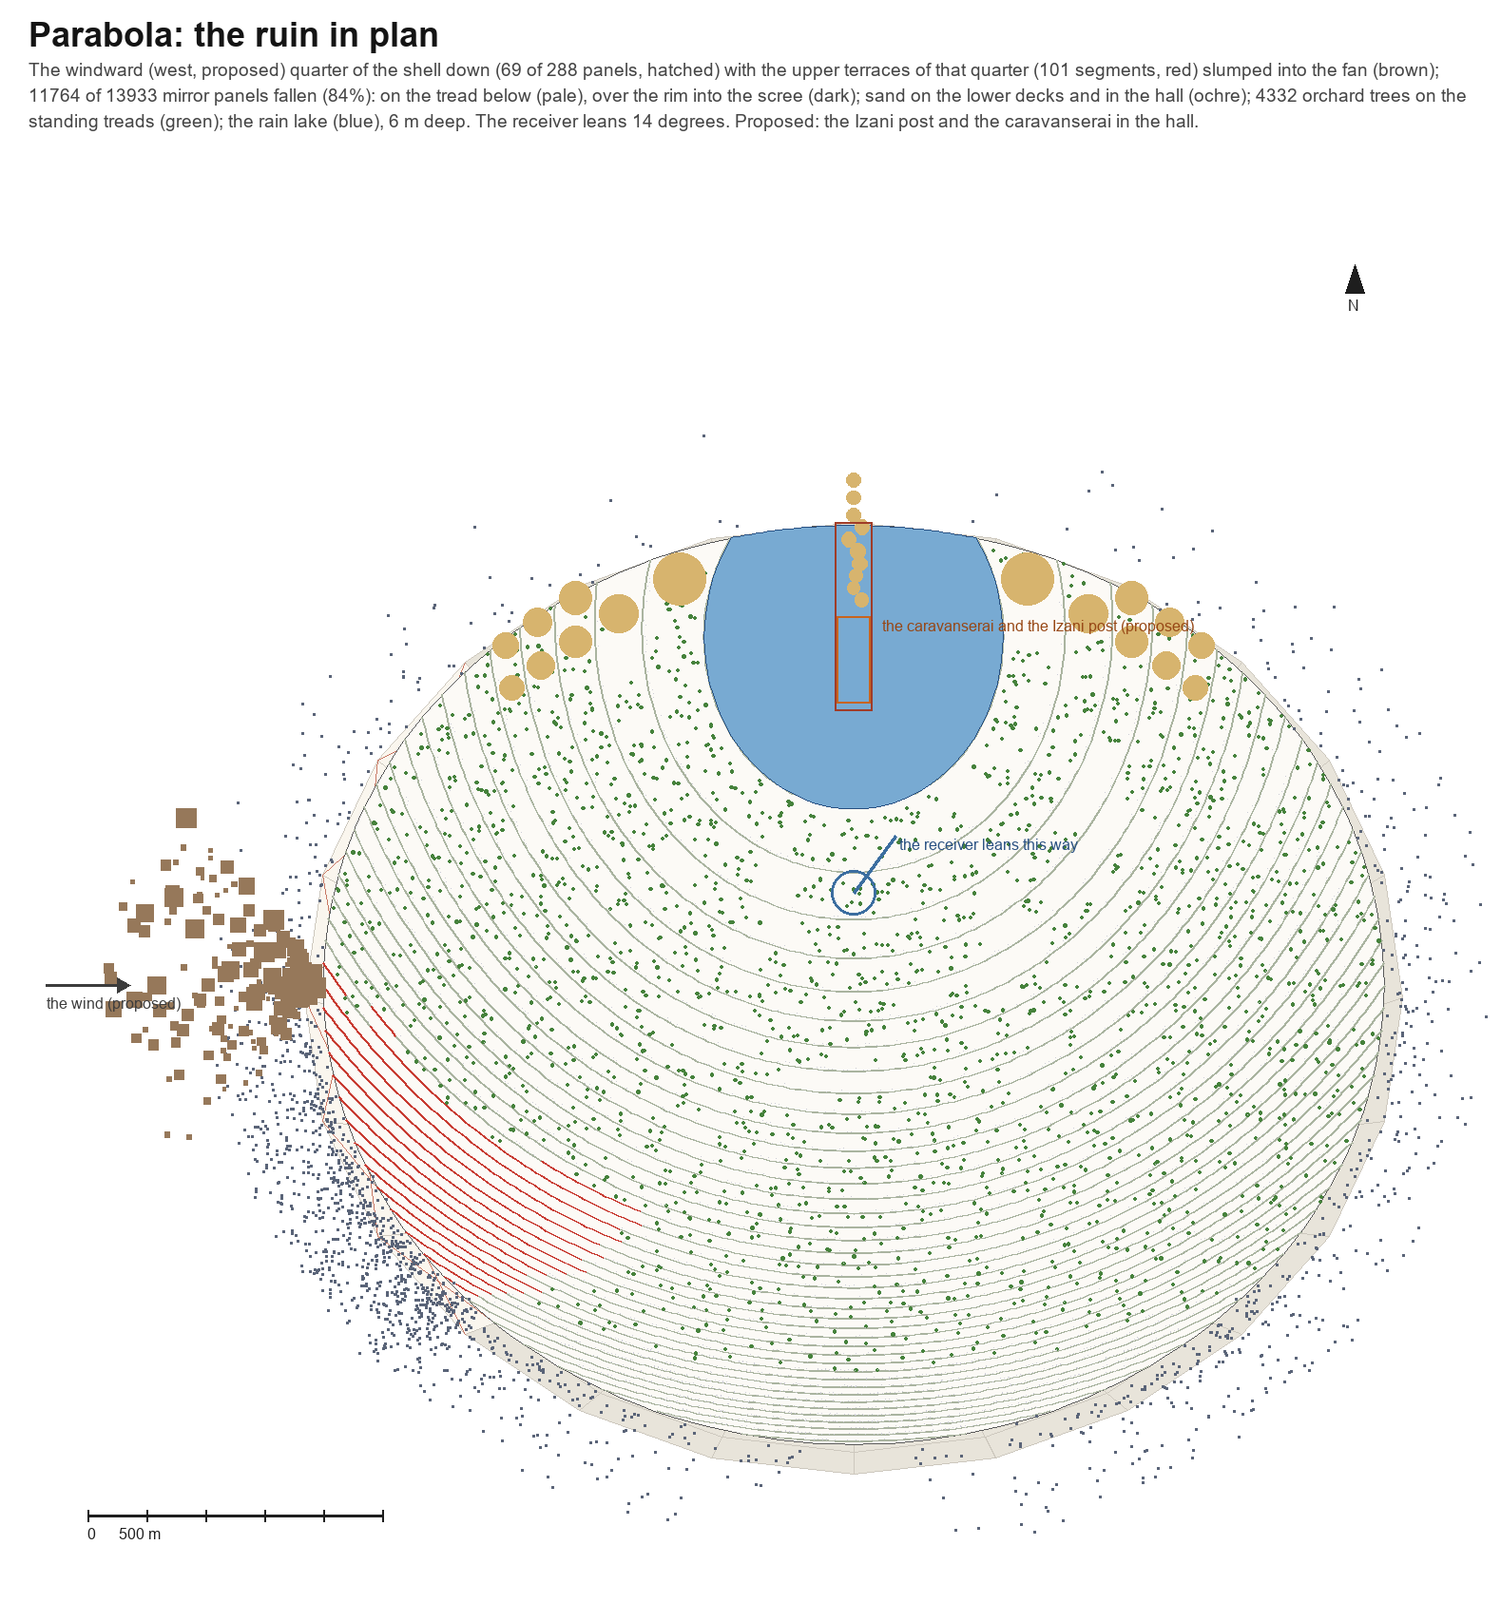
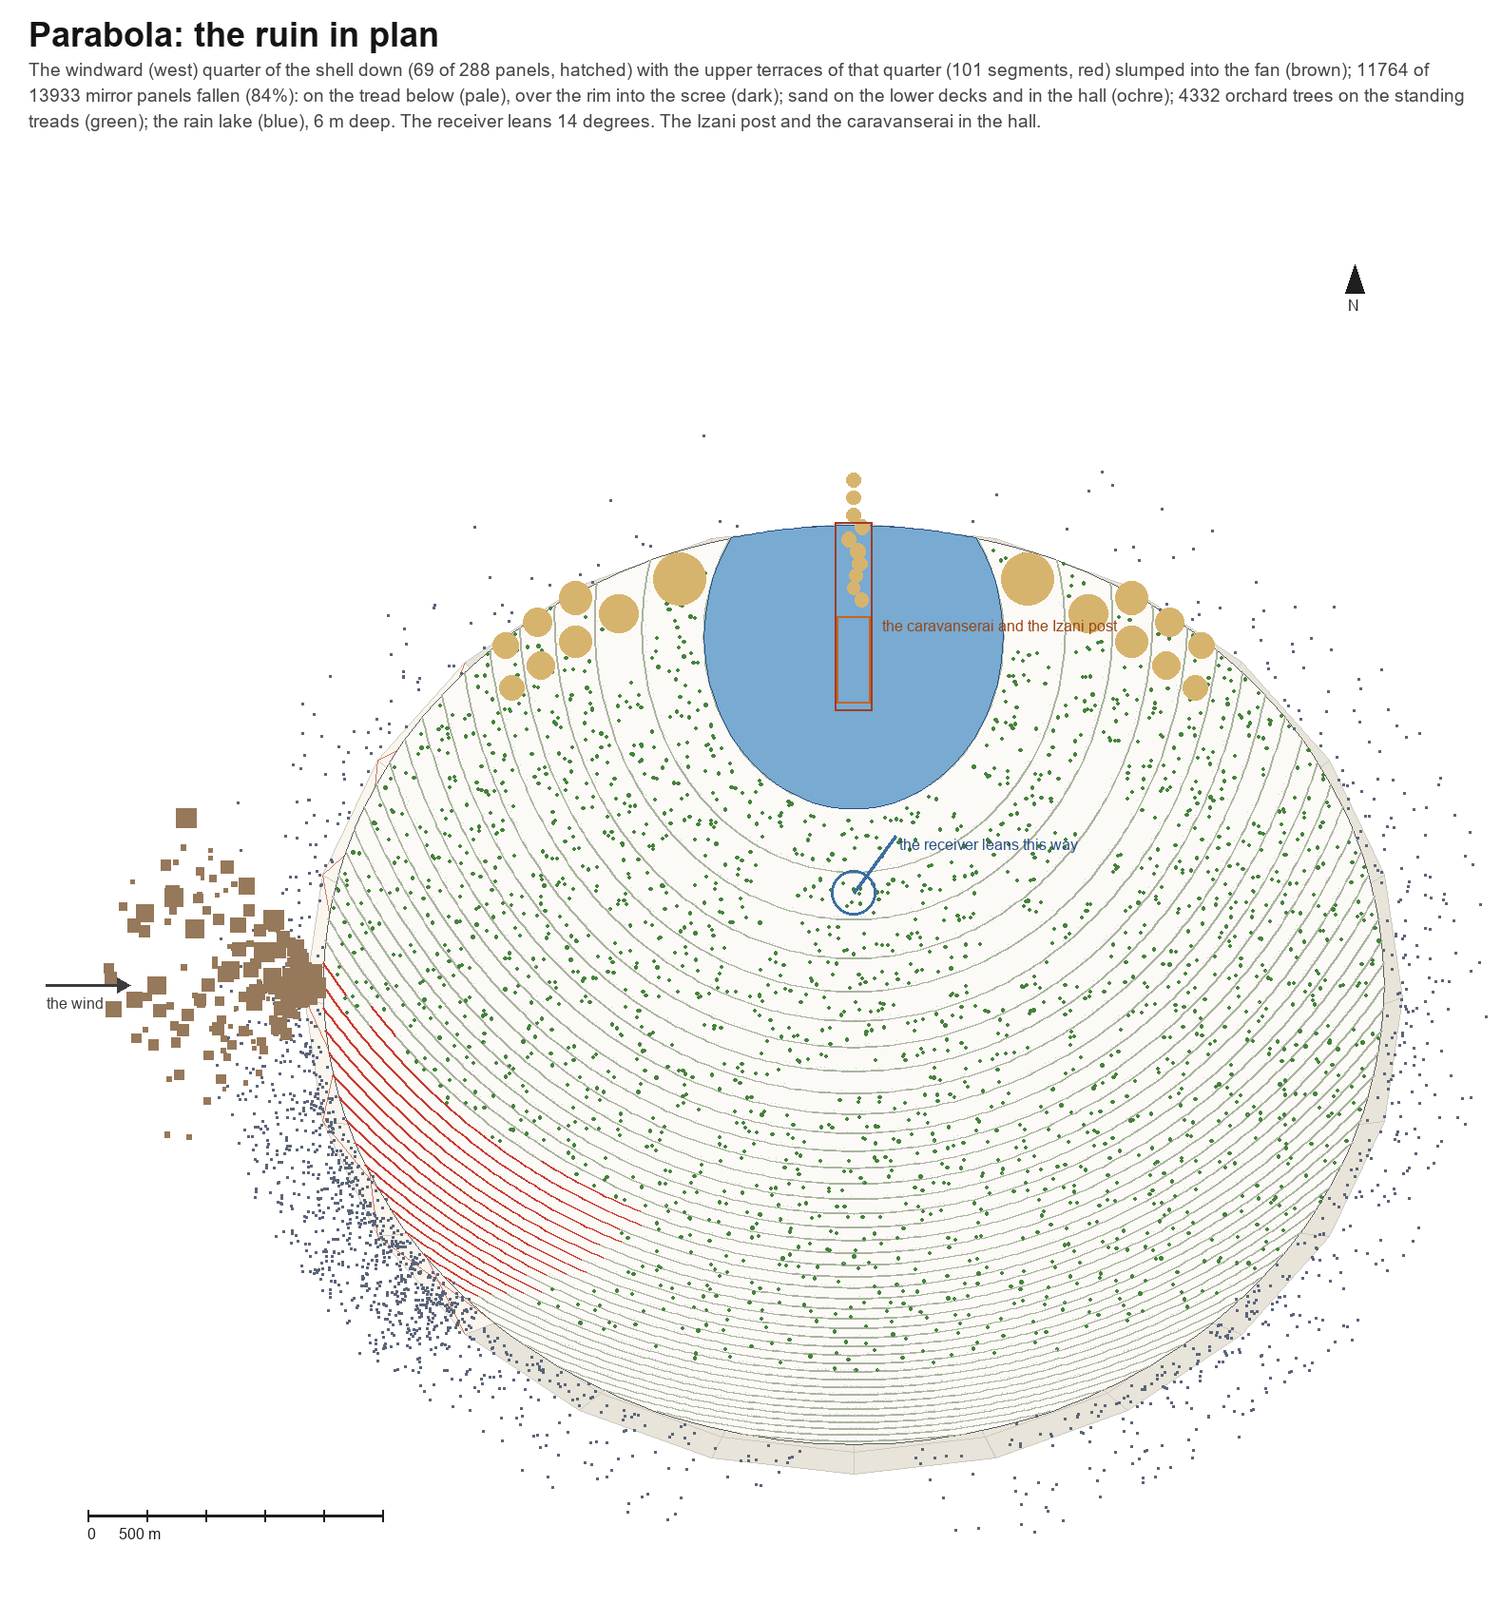
kits/ancients: Parabola, the owner's answers (2026-11-11)
All five open questions keep the default as built: the 30 degree tilt (back rim ~980 m, receiver ~800 m), facing north
over the Bowl, the west quarter windward and down, mirror banks on every lip plus the mirror-clad steep back, and the
Izani customs post and caravanserai kept. NOTES.md records the answers; the "proposed" marks come off the wind and the
post in the notes, the blueprint, the plan's records (post.owner), the tags' names and the ruin sheet. Only the lake's
drain level stays proposed. Page rebuilt; verify.py --assert passes on a GPU lane.

Changed region(s): [[0.031, 0.0308, 0.962, 0.0925]]

diff --git a/kits/ancients/targets/parabola/8av1-parabola-draw.js b/kits/ancients/targets/parabola/8av1-parabola-draw.js
@@ -50,8 +50,8 @@ function buildParabola(scene,gx,gz,d){reseed(9920+d);KOFF=[gx,0,gz];
   if(RU){for(const t of RU.orchard)T.child(B.id,{'class':'flora',kind:'tree',key:t.id,at:W(t.at),h:t.h});
    T.child(B.id,{'class':'feature',kind:'lake',key:RU.lake.id,at:W(F.low),name:'the rain lake'});
    const Pz=RU.post,Pt={culture:'iziz',state:'reclaimed'};
-   T.child(B.id,{'class':'building',kind:'customs-post',key:Pz.house.id,name:'Izani customs post (proposed)',at:W(Pz.house.at),tags:Object.assign({types:['civic']},Pt)});
-   T.child(B.id,{'class':'building',kind:'caravanserai',key:Pz.serai.id,name:'caravanserai (proposed)',at:W([(Pz.serai.rect[0]+Pz.serai.rect[1])/2,Pz.serai.y,(Pz.serai.rect[2]+Pz.serai.rect[3])/2]),tags:Object.assign({types:['inn','market']},Pt)});}}
+   T.child(B.id,{'class':'building',kind:'customs-post',key:Pz.house.id,name:'Izani customs post',at:W(Pz.house.at),tags:Object.assign({types:['civic']},Pt)});
+   T.child(B.id,{'class':'building',kind:'caravanserai',key:Pz.serai.id,name:'caravanserai',at:W([(Pz.serai.rect[0]+Pz.serai.rect[1])/2,Pz.serai.y,(Pz.serai.rect[2]+Pz.serai.rect[3])/2]),tags:Object.assign({types:['inn','market']},Pt)});}}
 
  REGISTER({name:'Parabola ('+STATE(d)+')',x:0,z:0,r:R*1.05,y:0,h:P.stats.height+20});
  REGISTER({name:'Parabola — the receiver',x:P.receiver.at[0],z:P.receiver.at[2],r:P.receiver.r+12,y:P.receiver.at[1]-P.receiver.r-14,h:2*P.receiver.r+20});
@@ -212,7 +212,7 @@ function buildParabola(scene,gx,gz,d){reseed(9920+d);KOFF=[gx,0,gz];
   // the sand: drifts on the low decks, in the hall's mouth and on the viaduct
   for(const s of RU.sand){const yaw=s.on===P.hall.id||s.on===P.viaduct.id?Math.PI/2:-(s.a+Math.PI/2);
    kput('pbDune',[s.at[0],s.at[1],s.at[2]],qEuler(0,yaw,0),[s.len/2,s.h,s.w/2],new THREE.Color(0xd2b083).multiplyScalar(.9+.15*h(470,Math.round(s.at[0]),Math.round(s.at[2]))));}
-  // proposed: the Izani customs post at the portal and the caravanserai in the hall
+  // the Izani customs post at the portal (owner, 2026-11-11) and the caravanserai in the hall
   {const Pz=RU.post,y=P.hall.y0,cloth=[0xa83a2a,0xd8a040,0x2a5a8a,0xe8dcc0];
    kput('acBox',[Pz.gate.at[0],y+1.1,Pz.gate.at[2]],null,[Pz.gate.w,.35,.35],new THREE.Color(0xb8382a));
    for(const sx of [-1,1])kput('acBox',[Pz.gate.at[0]+sx*Pz.gate.w/2,y+.8,Pz.gate.at[2]],null,[.5,1.6,.5],new THREE.Color(0x6a5034));

diff --git a/kits/ancients/targets/parabola/8av0-parabola-plan.js b/kits/ancients/targets/parabola/8av0-parabola-plan.js
@@ -31,7 +31,7 @@ PARABOLA.DIM={R:900,DEPTH:320,TILT:30,AZ:0,STO:25.6/7,NS:6,LIT:16,SHELL:55,LOW:7
  HALL:{len:320,w:64,h:30,under:6},VIA:{len:420,w:34,pitch:42},
  // the population: the lit depth behind each front (one-sided, LIT m), NS storeys, SHARE of it homes, M2 gross a person
  SHARE:.8,M2:45,
- // the ruin (owner's brief, 2026-11-11; the wind proposed): mirrors fallen, the windward quarter, the receiver's lean
+ // the ruin (owner's brief and answers, 2026-11-11: the west quarter windward): mirrors fallen, the windward quarter, the receiver's lean
  RUIN:{mirrors:.84,wind:270,quarter:90,breach:.45,lean:14,panes:.35,sandK:5,lake:6}};
 
 PARABOLA.h=function(seed){return KRAND.unit(KRAND.hash.apply(null,arguments));};
@@ -184,10 +184,10 @@ PARABOLA.ruin=function(P){const D=P.dim,RU=D.RUIN,F=P.frame,S=P.seed,h=PARABOLA.
    out.orchard.push({id:'pb.or.'+g.k+'.'+g.s+'.'+i,on:g.id,at:[p[0],g.y1,p[2]],h:4+7*h(S,315,g.k,g.s,i)});}}
  // THE RAIN LAKE: the basin flooded RU.lake m deep, held by the north parapet
  out.lake={id:'pb.lake',level:P.basin.y+RU.lake,poly:P.basin.poly.slice(),depth:RU.lake};
- // proposed: the Izani customs post at the portal and the caravanserai in the hall, where the road from Mantis ends
+ // the Izani customs post at the portal and the caravanserai in the hall, where the road from Mantis ends (owner, 2026-11-11)
  {const Hl=P.hall,cx=(Hl.x0+Hl.x1)/2,z0=Hl.z0+D.HALL.len*.5,z1=Hl.z1-14,stalls=[];
   for(let i=0;i<14;i++){const side=i<7?-1:1,j=i%7;stalls.push({id:'pb.serai.stall.'+i,at:[cx+side*24,Hl.y0,z0+8+j*(z1-z0-16)/6],ry:side>0?-Math.PI/2:Math.PI/2});}
   const beasts=[];for(let i=0;i<10;i++)beasts.push({id:'pb.serai.beast.'+i,at:[cx+(h(S,316,i,0)-.5)*30,Hl.y0,z0+12+h(S,316,i,1)*(z1-z0-24)],ry:h(S,316,i,2)*6.28});
-  out.post={proposed:true,gate:{id:'pb.post.gate',at:[cx,Hl.y0,Hl.z0+3],w:Hl.x1-Hl.x0-6},house:{id:'pb.post.house',at:[cx+20,Hl.y0,Hl.z0+16],size:[14,7,12]},
+  out.post={owner:'2026-11-11',gate:{id:'pb.post.gate',at:[cx,Hl.y0,Hl.z0+3],w:Hl.x1-Hl.x0-6},house:{id:'pb.post.house',at:[cx+20,Hl.y0,Hl.z0+16],size:[14,7,12]},
    serai:{id:'pb.serai',rect:[cx-28,cx+28,z0,z1],y:Hl.y0,stalls,beasts}};}
  return out;};

diff --git a/kits/ancients/targets/parabola/test-parabola.js b/kits/ancients/targets/parabola/test-parabola.js
@@ -62,7 +62,7 @@ ok(P.legs.length===3&&P.legs.every(l=>Math.abs(len(sub(l.head,P.receiver.at))-P.
  ok(RU.receiver.lean>10&&RU.legs.length===3,'the receiver leans in its mast, the stairs gone');
  ok(RU.sand.some(s=>s.on===P.hall.id)&&RU.sand.filter(s=>/^pb\.t\./.test(s.on)).every(s=>+s.on.split('.')[2]<=D.RUIN.sandK),'sand drifted on the lower decks and in the hall');
  const gone=new Set(RU.gone);ok(RU.orchard.length>2000&&RU.orchard.every(t=>!gone.has(t.on)&&P.segs.find(g=>g.id===t.on).use==='farm'),'the standing farm treads gone to orchard ('+RU.orchard.length+' trees)');
- ok(RU.post.proposed&&RU.post.serai.stalls.every(s=>s.at[2]>P.hall.z0&&s.at[2]<P.hall.z1),'the Izani post and caravanserai (proposed) in the hall');}
+ ok(RU.post.owner&&RU.post.serai.stalls.every(s=>s.at[2]>P.hall.z0&&s.at[2]<P.hall.z1),'the Izani post and caravanserai in the hall');}
 {const bad=[];const walk=(o,pth)=>{if(typeof o==='number'){if(!isFinite(o))bad.push(pth);}else if(o&&typeof o==='object')for(const k in o)if(typeof o[k]!=='function')walk(o[k],pth+'.'+k);};
  walk(P,'plan');walk(RU,'ruin');walk(DR,'dress');ok(!bad.length,'every number in the plan, the ruin and the dress is finite'+(bad.length?' ('+bad.slice(0,3).join(' ')+')':''));}
 console.log(fails?fails+' FAILED':'all passed');process.exit(fails?1:0);

diff --git a/kits/ancients/targets/parabola/91z-views.js b/kits/ancients/targets/parabola/91z-views.js
@@ -35,7 +35,7 @@ const VIEWS={
  'The rain lake':                (function(S){return PBW(S,S.low[0]-180,S.ymin+70,S.low[2]+230).concat(PBW(S,S.low[0],S.ymin,S.low[2]-40));})(PBB),
  // the receiver cracked and leaning, the stairs gone from its legs
  'The leaning receiver':         (function(S){const f=S.receiver.at;return PBW(S,f[0]-170,f[1]+30,f[2]-160).concat(PBW(S,f[0],f[1]-10,f[2]));})(PBB),
- // the sand in the hall's mouth, the Izani post and the caravanserai (proposed)
+ // the sand in the hall's mouth, the Izani post and the caravanserai
  'The caravanserai':             (function(S){const H=S.hall,cx=(H.x0+H.x1)/2;return PBW(S,cx+18,H.y0+9,H.z0+70).concat(PBW(S,cx,H.y0+3,H.z0+230));})(PBB),
  // the scree under the north lip: mirror glass in the sand
  'The scree':                    (function(S){return PBW(S,S.low[0]+420,90,S.low[2]-420).concat(PBW(S,S.low[0]+300,10,S.low[2]-160));})(PBB),

diff --git a/kits/ancients/dist/parabola.html b/kits/ancients/dist/parabola.html
@@ -1,3 +1,3 @@
 version https://git-lfs.github.com/spec/v1
-oid sha256:e97d83d00a0a88d415056ec8ae40f9874100f057d6002ebc510d653db62a0208
-size 2897809
+oid sha256:79f12d192bea67d0765ee5735a9ff32b98a92f5f44a6c01fec98a722c70255af
+size 2897821

diff --git a/kits/ancients/targets/parabola/plan/parabola_plan.py b/kits/ancients/targets/parabola/plan/parabola_plan.py
@@ -205,9 +205,9 @@ def ruin_sheet(P):
     ft, fs, f = font(36, True), font(19), font(16)
     R = P['ruin']; nf = len(R['fallen']); nm = P['mirrors']
     dr.text((30, 16), 'Parabola: the ruin in plan', font=ft, fill=(20, 20, 20))
-    para(dr, (30, 62), 'The windward (west, proposed) quarter of the shell down (%d of %d panels, hatched) with the upper terraces of that quarter (%d segments, red) slumped '
+    para(dr, (30, 62), 'The windward (west) quarter of the shell down (%d of %d panels, hatched) with the upper terraces of that quarter (%d segments, red) slumped '
             'into the fan (brown); %d of %d mirror panels fallen (%.0f%%): on the tread below (pale), over the rim into the scree (dark); sand on the lower decks and in '
-            'the hall (ochre); %d orchard trees on the standing treads (green); the rain lake (blue), %d m deep. The receiver leans %d degrees. Proposed: the Izani post and the '
+            'the hall (ochre); %d orchard trees on the standing treads (green); the rain lake (blue), %d m deep. The receiver leans %d degrees. The Izani post and the '
             'caravanserai in the hall.' % (len(R['shell']), len(P['panels']), len(R['gone']), nf, nm, 100 * nf / nm, len(R['orchard']), R['lake']['depth'], R['receiver']['lean']), fs, W - 60)
     X, Y = plan_frame(img, dr, 30, 230, s)
     gone_sh = set(R['shell'])
@@ -238,7 +238,7 @@ def ruin_sheet(P):
     dr.rectangle([X(H['x0']), Y(H['z0']), X(H['x1']), Y(H['z1'])], outline=(160, 60, 40), width=2)
     sr = R['post']['serai']['rect']
     dr.rectangle([X(sr[0]), Y(sr[2]), X(sr[1]), Y(sr[3])], outline=(200, 100, 30), width=2)
-    dr.text((X(H['x1']) + 10, Y(sr[2])), 'the caravanserai and the Izani post (proposed)', font=f, fill=(150, 70, 20))
+    dr.text((X(H['x1']) + 10, Y(sr[2])), 'the caravanserai and the Izani post', font=f, fill=(150, 70, 20))
     fo = P['receiver']['at']; r = P['receiver']['r'] * s
     dr.ellipse([X(fo[0]) - r, Y(fo[2]) - r, X(fo[0]) + r, Y(fo[2]) + r], outline=(60, 110, 160), width=3)
     dd = R['receiver']['dir']; dr.line([X(fo[0]), Y(fo[2]), X(fo[0] + dd[0] * 120), Y(fo[2] + dd[2] * 120)], fill=(60, 110, 160), width=3)
@@ -247,7 +247,7 @@ def ruin_sheet(P):
     ax, az = -1250, 0
     dr.line([X(ax - 120), Y(az), X(ax), Y(az)], fill=(60, 60, 60), width=3)
     dr.polygon([(X(ax), Y(az) - 8), (X(ax) + 14, Y(az)), (X(ax), Y(az) + 8)], fill=(60, 60, 60))
-    dr.text((X(ax - 120), Y(az) + 10), 'the wind (proposed)', font=f, fill=(60, 60, 60))
+    dr.text((X(ax - 120), Y(az) + 10), 'the wind', font=f, fill=(60, 60, 60))
     scale_bar(dr, X, Y, f)
     img.save(os.path.join(OUT, 'ruin.png'))
 

diff --git a/kits/ancients/targets/parabola/NOTES.md b/kits/ancients/targets/parabola/NOTES.md
@@ -4,7 +4,7 @@ The Bowl's arcology (owner, 2026-11-11: design A of `openworld/ANCIENT-NETWORK.m
 `claude/ancient-network-9cc3e7`). A city that was a solar furnace. It stands at scale model 5.1 px 970,1186: 1 716 m,
 15 degC mean, 314 mm of rain, on the Bowl's south-west rim near the Godsgate, over the Bowl's salt floor and Mantis's
 oasis. It is the Rift line's possible station 13, at the end of the Godsgate highway and of the Izani road from Mantis.
-"Parabola" is the working name that came with the design. Facts not in 8.11 are marked *proposed*: the owner decides lore.
+"Parabola" is the working name that came with the design. Facts not in 8.11 are marked *proposed*: the owner decides lore. The owner answered the plan's five questions on 2026-11-11, each keeping its default (below).
 
 ## The plan
 
@@ -14,7 +14,7 @@ The model is the plan's records (`8av0-parabola-plan.js`, [G data]); the drawing
 |---|---|
 | The dish | a paraboloid 1 800 m across the rim and 320 m deep (focal length 633 m), its axis **tilted 30 degrees to the north**, where Krator's noon sun stands (the settlements lie near 40 S): it faces out over the Bowl, its back to the rim's hill. The tilt puts the dish's lowest point 731 m from the vertex toward the north lip, only 10 m under that lip, and the back rim 910 m over it |
 | The inner face | **41 level terraces**, each a 6-storey (21.9 m) riser of dwellings behind a glazed front, the tread above it a farm (its roof). The terraces follow the dish's level contours, which on a tilted paraboloid are circles about the lowest point: full rings low down, then horseshoes opening north once they meet the rim. A lip of every tread is on the true paraboloid; the stepped face lies inside it. **The basin** at the bottom is a level plaza out to the first riser, closed on the north by the rim's parapet |
-| The mirrors | a bank of mirror panels on every terrace lip, each aimed at the focus (*proposed*: where the "mirrored terraces" were), with the cyan strip under it. Treads steeper than 58 degrees (the top of the back) are mirror-clad, not farmed |
+| The mirrors | a bank of mirror panels on every terrace lip, each aimed at the focus (owner, 2026-11-11), with the cyan strip under it. Treads steeper than 58 degrees (the top of the back) are mirror-clad, not farmed |
 | The outer face | the Ancients' white seamed shell 55 m behind the inner face, on **24 organic ribs** (Soleri, Gaudi) running from a boss under the vertex to the rim, swelling where they land on the piers, with a **bronze band** at each landing |
 | The piers | **three Cyclopean piers** at the ribs under the back (south, 540 m tall) and the north-west and north-east (about 200 m): the dish's mass stands inside their triangle (a node test) |
 | The focus | the **receiver**, a 76 m sphere of bronze frame and blue glass at the focus, 800 m up, on a **tripod mast** of three 713 m legs from the inner face, each carrying a stair |
@@ -26,13 +26,13 @@ The ruin, as deltas by id (`PARABOLA.ruin`):
 - **the mirrors**: 84% of the lip panels fallen, by a hash of each panel's id: most lie broken on the tread below; those near the
   rim's ends and in the breach went over into **the scree** outside, where they glitter;
 - **the receiver** cracked (a gash and a third of its panes gone) and leaning 14 degrees in its seat; **the mast's stairs gone**;
-- **the windward quarter of the shell down**: the west (*proposed*: the prevailing wind at the rim is westerly), its panels and the ribs'
+- **the windward quarter of the shell down**: the west (owner, 2026-11-11), its panels and the ribs'
   upper reaches fallen into a debris fan, the upper terraces of that quarter slumped with it, the dark fabric behind them open;
 - **the lower decks drifted** with Bowl sand: the low terraces' ends at the north lip, the hall's mouth and its platforms;
 - **the inner terraces wild orchard** and meadow in the mild climate;
 - **a rain lake** in the basin, 6 m deep over the plaza, held by the north parapet (10 m): the only standing fresh water for a day's
   march (a `core/water` still record, `PB_SITE[1].lake`);
-- *proposed*: **an Izani customs post** at the hall's portal and **a caravanserai** in the hall, where the Izani road from Mantis ends.
+- **an Izani customs post** at the hall's portal and **a caravanserai** in the hall, where the Izani road from Mantis ends (owner, 2026-11-11: keep it).
 
 ## Core adoption
 
@@ -61,15 +61,14 @@ The ruin, as deltas by id (`PARABOLA.ruin`):
 
 Build: `python3 tools/build.py kits/ancients --target parabola` (or `python3 kits/ancients/build.py --target parabola`). Plan seed 9710 (KRAND); the builder's own stream reseed(9920 + d).
 
-## Open questions for the owner (asked 2026-11-11; the defaults above are built until answered)
+## The owner's answers (2026-11-11: every one keeps the default as built)
 
-1. **Height.** At 1.8 km, 320 m deep and tilted 30 degrees, the back rim stands 910 m over the north lip (980 m over the ground) and the
-   receiver 800 m up. Keep it, or tilt it less (15 degrees: the back about 570 m)?
-2. **Facing.** The noon sun is north, so the dish faces north over the Bowl, its back to the hill. Right?
-3. **The windward side.** Which way does the wind come at the rim? The default brings down the west quarter.
-4. **The mirrors.** A bank of panels on every terrace lip, each tangent to the dish so it sends the light to the focus, the steep top of
-   the back mirror-clad: right, or were the treads themselves the mirrors (and the farms elsewhere)?
-5. **The customs post and caravanserai** in the terminus hall: keep them (*proposed*)?
+1. **Height**: keep the 30 degree tilt; the back rim about 980 m over the ground, the receiver about 800 m up.
+2. **Facing**: north, over the Bowl, its back to the hill.
+3. **The windward side**: the west quarter is the one down.
+4. **The mirrors**: a bank of panels on every terrace lip aimed at the focus, and the steep top of the back mirror-clad; the terraces stay
+   homes and farms.
+5. **The Izani customs post and caravanserai** in the terminus hall: keep them.
 
 ## Weaknesses
 

diff --git a/kits/ancients/targets/parabola/plan/BLUEPRINT.md b/kits/ancients/targets/parabola/plan/BLUEPRINT.md
@@ -4,7 +4,7 @@ The owner's choice (2026-11-11), design A of `openworld/ANCIENT-NETWORK.md` sect
 **a terraced paraboloid dish, a city that was a solar furnace**, on the Bowl's south-west rim near the Godsgate (scale model 5.1
 px 970,1186; 1 716 m, 15 degC mean, 314 mm of rain). The model is `../8av0-parabola-plan.js` (the plan, [G data]) and
 `../8av1-parabola-draw.js`; this folder is its blueprint, drawn from the same records, so a sheet cannot drift from the page.
-Facts marked *proposed* wait on the owner (`../NOTES.md`, "Open questions").
+The owner answered its five questions on 2026-11-11, each keeping the default (`../NOTES.md`); the one fact still marked *proposed* is the lake's drain.
 
 | File | What |
 |---|---|
@@ -41,7 +41,7 @@ The plan with `PARABOLA.ruin`'s deltas, every one by a hash of a record's id:
 
 - **84% of the mirrors fallen** (11 764): most lie broken on the tread below their lip; those near the rim's ends and off the
   slumped terraces went over into the scree outside and the fan;
-- **the windward quarter** (the west, *proposed*): 69 of the shell's 288 panels down (the boss's ring kept), its ribs broken a
+- **the windward quarter** (the west; owner, 2026-11-11): 69 of the shell's 288 panels down (the boss's ring kept), its ribs broken a
   quarter to half way up, and the upper terraces of that quarter (101 segments, above the nineteenth terrace) slumped into a fan of
   shell plates, slabs and glass below; behind the standing terraces the dark broken fabric shows;
 - **the receiver** cracked (a gash and a third of its panes gone) and leaning 14 degrees in its seat, 7 m down; **the stairs gone**
@@ -51,5 +51,5 @@ The plan with `PARABOLA.ruin`'s deltas, every one by a hash of a record's id:
 - **the rain lake**: the basin flooded 6 m deep, held by the 10 m north parapet. 314 mm on the dish's 250 ha is about 0.8 million m3 a
   year; the lake holds about as much and loses perhaps a fifth of that to the dry wind, so it overflows in wet years (*proposed*:
   its level is the old drain into the hall, cracked at 6 m);
-- *proposed*: **the Izani customs post** at the portal (a barrier and a customs house on the platform) and **the caravanserai** in the
-  hall's south half (fourteen stalls round a court, beasts, traders), where the Izani road from Mantis ends.
+- **the Izani customs post** at the portal (a barrier and a customs house on the platform) and **the caravanserai** in the
+  hall's south half (fourteen stalls round a court, beasts, traders), where the Izani road from Mantis ends (owner, 2026-11-11).
